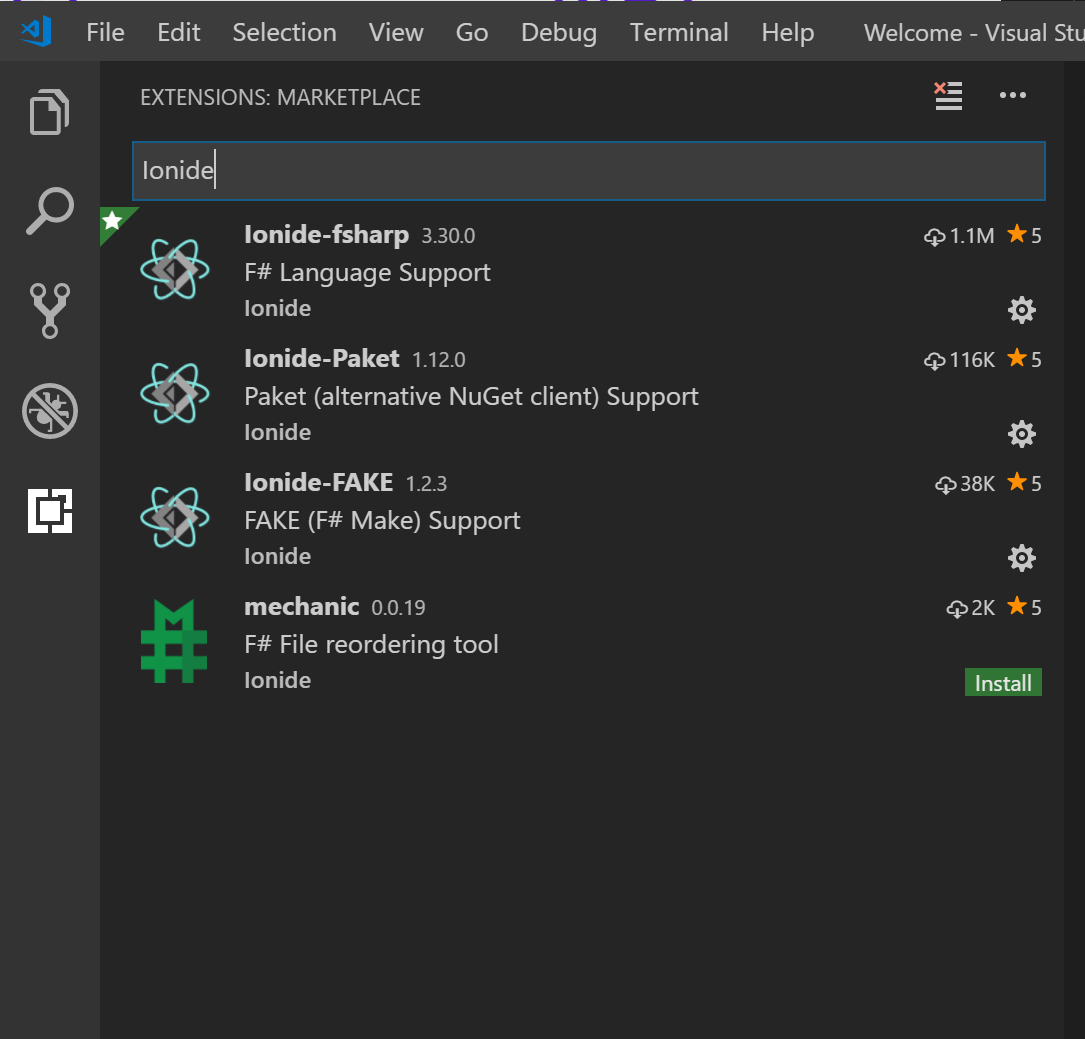
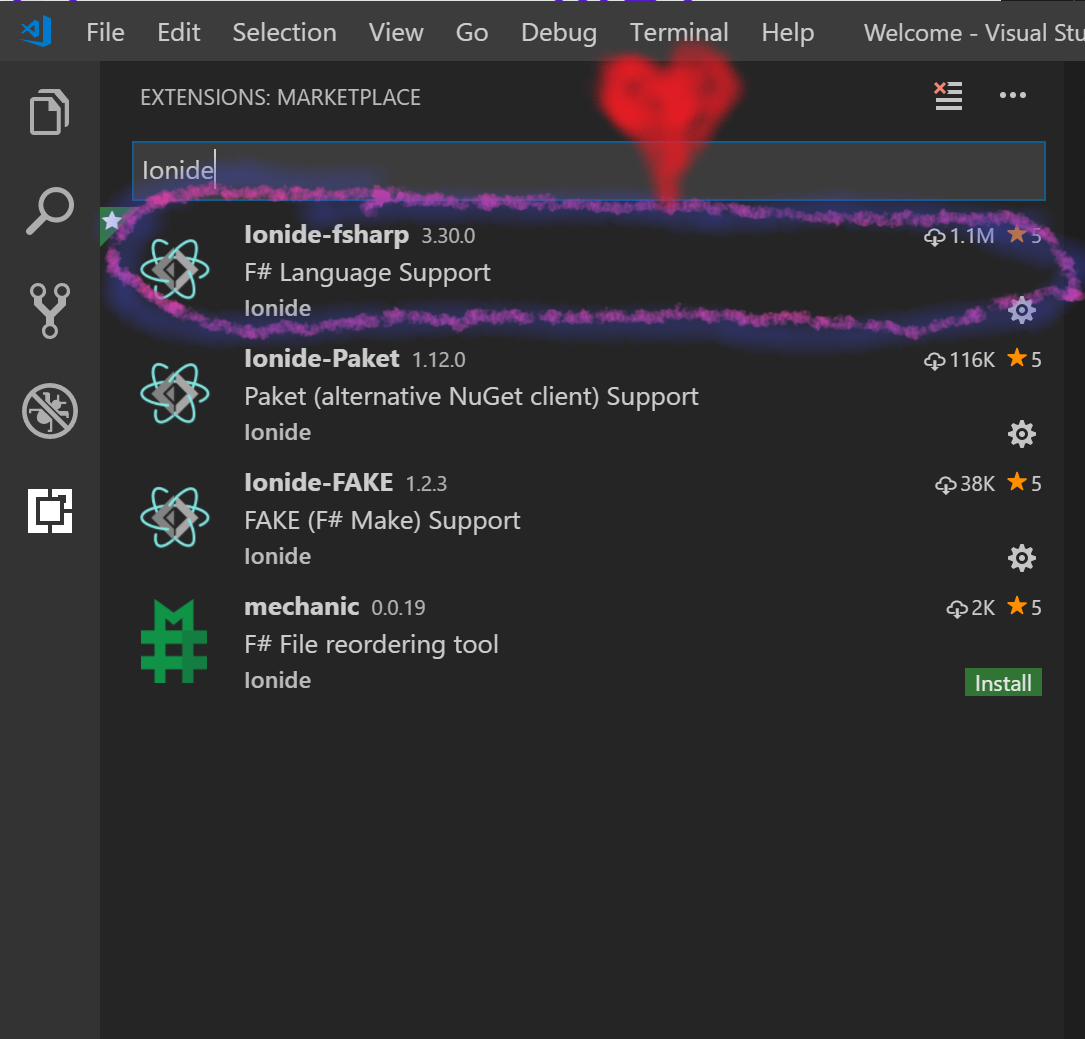
nicer last picture

Changed region(s): [[0.0912, 0.0308, 1.0, 0.3388]]

diff --git a/README.md b/README.md
@@ -44,4 +44,4 @@ click on the extensions symbol to the right:
 
 type 'Ionide' into the searchbar and install it
 
-![Step4.3.png](https://i.imgur.com/9zhV3vd.png)
+![Step4.3.png](https://i.imgur.com/0thIpnA.png)
